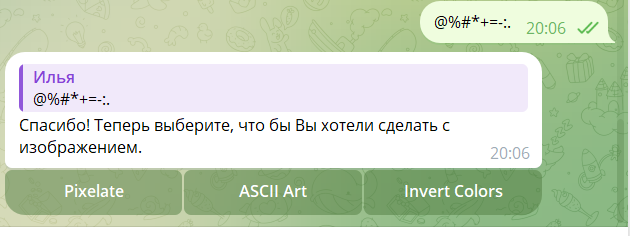
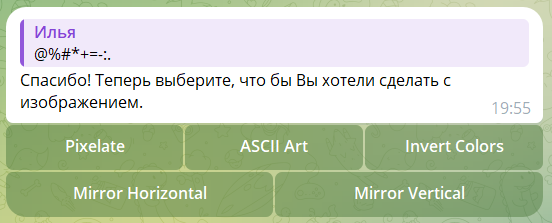
task3

diff --git a/bot.py b/bot.py
@@ -123,6 +123,19 @@ def invert_colors(image):
         image = image.convert('RGB')
     return ImageOps.invert(image)
 
+def mirror_image(image, direction="horizontal"):
+    """
+    Функция отражения изображения по горизонтали или вертикали
+    image: Объект PIL.Image
+    direction: Направление отражения ("horizontal" или "vertical")
+    """
+    if direction == "horizontal":
+        return image.transpose(Image.FLIP_LEFT_RIGHT)
+    elif direction == "vertical":
+        return image.transpose(Image.FLIP_TOP_BOTTOM)
+    else:
+        raise ValueError("Invalid direction. Use 'horizontal' or 'vertical'.")
+
 @bot.message_handler(commands=['start', 'help'])
 def send_welcome(message):
     """
@@ -157,7 +170,10 @@ def get_options_keyboard():
     pixelate_btn = types.InlineKeyboardButton("Pixelate", callback_data="pixelate")
     ascii_btn = types.InlineKeyboardButton("ASCII Art", callback_data="ascii")
     invert_btn = types.InlineKeyboardButton("Invert Colors", callback_data="invert")  # Кнопка для инверсии
+    mirror_h_btn = types.InlineKeyboardButton("Mirror Horizontal", callback_data="mirror_horizontal")
+    mirror_v_btn = types.InlineKeyboardButton("Mirror Vertical", callback_data="mirror_vertical")
     keyboard.add(pixelate_btn, ascii_btn, invert_btn)
+    keyboard.add(mirror_h_btn, mirror_v_btn)
     return keyboard
 
 @bot.callback_query_handler(func=lambda call: True)
@@ -174,6 +190,12 @@ def callback_query(call):
     elif call.data == "invert":
         bot.answer_callback_query(call.id, "Инверсия цветов изображения...")
         invert_and_send(call.message)  # Функция инверсии цветов и отправки изображения
+    elif call.data == "mirror_horizontal":
+        bot.answer_callback_query(call.id, "Отражение изображения по горизонтали...")
+        mirror_and_send(call.message, direction="horizontal")
+    elif call.data == "mirror_vertical":
+        bot.answer_callback_query(call.id, "Отражение изображения по вертикали...")
+        mirror_and_send(call.message, direction="vertical")
 
 def pixelate_and_send(message):
     """
@@ -226,6 +248,26 @@ def invert_and_send(message):
     # Сохраняем результат в поток и отправляем
     output_stream = io.BytesIO()
     inverted_image.save(output_stream, format="JPEG")
+    output_stream.seek(0)
+    bot.send_photo(message.chat.id, output_stream)
+
+def mirror_and_send(message, direction):
+    """
+    Функция отражения изображения и отправки
+    """
+    photo_id = user_states[message.chat.id]['photo']
+    file_info = bot.get_file(photo_id)
+    downloaded_file = bot.download_file(file_info.file_path)
+
+    image_stream = io.BytesIO(downloaded_file)
+    image = Image.open(image_stream)
+
+    # Применяем отражение
+    mirrored_image = mirror_image(image, direction)
+
+    # Сохраняем результат в поток и отправляем
+    output_stream = io.BytesIO()
+    mirrored_image.save(output_stream, format="JPEG")
     output_stream.seek(0)
     bot.send_photo(message.chat.id, output_stream)
 

diff --git a/README.md b/README.md
@@ -13,38 +13,34 @@
 и функции для создания различных типов объектов Telegram, таких как клавиатуры и кнопки.
 
 ------------
-## Описание функционала
+## Структура программы
 
-### Хранение состояний пользователей:
-- user_states используется для отслеживания действий или состояний пользователей. Например, какое изображение было отправлено.
+### Функции обработки изображений:
+- resize_image: изменяет размер изображения с сохранением пропорций.
+- grayify: преобразует цветное изображение в оттенки серого.
+- image_to_ascii: основная функция для преобразования изображения в ASCII-арт. Изменяет размер, преобразует в градации серого и затем в строку ASCII-символов.
+- pixels_to_ascii: конвертирует пиксели изображения в градациях серого в строку ASCII-символов, используя предопределенную строку ASCII_CHARS.
+- pixelate_image: принимает изображение и размер пикселя. Уменьшает изображение до размера, где один пиксель представляет большую область, затем увеличивает обратно, создавая пиксельный эффект.
+- invert_colors: функция инверсии цветов изображения
+- mirror_image: функция отражения изображения по горизонтали или вертикали
 
-### Пикселизация
-pixelate_image(image, pixel_size): принимает изображение и размер пикселя. Уменьшает изображение до размера, где один пиксель представляет большую область, затем увеличивает обратно, создавая пиксельный эффект.
 
-### Преобразование в ASCII-арт. Подготовка изображения:
-- resize_image(image, new_width=100): изменяет размер изображения с сохранением пропорций.
-- grayify(image): преобразует цветное изображение в оттенки серого.
-- image_to_ascii(image_stream, new_width=40): основная функция для преобразования изображения в ASCII-арт. Изменяет размер, преобразует в градации серого и затем в строку ASCII-символов.
-- pixels_to_ascii(image): конвертирует пиксели изображения в градациях серого в строку ASCII-символов, используя предопределенную строку ASCII_CHARS.
+### Обработчики событий:
+- @bot.message_handler(commands=['start', 'help']): для текстовых команд. Реагирует на команды /start и /help, отправляя приветственное сообщение.
+- @bot.message_handler(content_types=['photo']): для получения изображений. Реагирует на изображения, отправляемые пользователем, и предлагает варианты обработки.
+- @bot.callback_query_handler: (func=lambda call: True): определяет действия в ответ на выбор пользователя (например, пикселизация или ASCII-арт) и вызывает соответствующую функцию обработки. 
 
-### Инверсия цветов изображения:
-- invert_colors(image): функция инверсии цветов изображения
-- invert_and_send(message): Функция инверсии цветов и отправки изображения
 
-### Взаимодействие с пользователем: 
-Обработчики сообщений:
-- @bot.message_handler(commands=['start', 'help']): реагирует на команды /start и /help, отправляя приветственное сообщение.
-- @bot.message_handler(content_types=['photo']): реагирует на изображения, отправляемые пользователем, и предлагает варианты обработки.
+### Функции отправки изображений:
+- pixelate_and_send: пикселизирует изображение и отправляет его обратно пользователю
+- ascii_and_send: преобразует изображение в ASCII-арт и отправляет результат в виде текстового сообщения
+- invert_and_send: функция инверсии цветов и отправки изображения
+- mirror_and_send: функция отражения изображения и отправки
 
-Клавиатура для взаимодействия:
-- get_options_keyboard(): создает клавиатуру с кнопками для выбора пользователем, как обработать изображение: через пикселизацию или преобразование в ASCII-арт.
 
-Обработка запросов. Обработка колбэков:
-- @bot.callback_query_handler(func=lambda call: True): определяет действия в ответ на выбор пользователя (например, пикселизация или ASCII-арт) и вызывает соответствующую функцию обработки.
+### Инициализация бота:
+- bot.polling(none_stop=True).
 
-Отправка результатов. Функции отправки:
-- pixelate_and_send(message): пикселизирует изображение и отправляет его обратно пользователю.
-- ascii_and_send(message): преобразует изображение в ASCII-арт и отправляет результат в виде текстового сообщения.
 
 --------------
 ### Скриншоты работы программы:
@@ -58,7 +54,7 @@ pixelate_image(image, pixel_size): принимает изображение и 
 <img src="images/img_3.PNG" alt="Подготовка фото к обработке" width="600">
 
 #### Запрос способа обработки изображения 
-(пикселизация, преобразование в ASCII-арт или инверсия)
+(пикселизация, преобразование в ASCII-арт, инверсия, отражение по горизонтали или вертикали)
 
 <img src="images/img_4.PNG" alt="Запрос способа обработки изображения" width="600">
 
@@ -70,3 +66,9 @@ pixelate_image(image, pixel_size): принимает изображение и 
 
 #### Пример инверсии (создание "негатива" изображения)
 <img src="images/img_7.PNG" alt="Результат инверсии" width="600">
+
+#### Пример отражения по горизонтали 
+<img src="images/img_8.PNG" alt="Отражение по горизонтали" width="600">
+
+#### Пример отражения по вертикали 
+<img src="images/img_9.PNG" alt="Отражение по вертикали" width="600">
